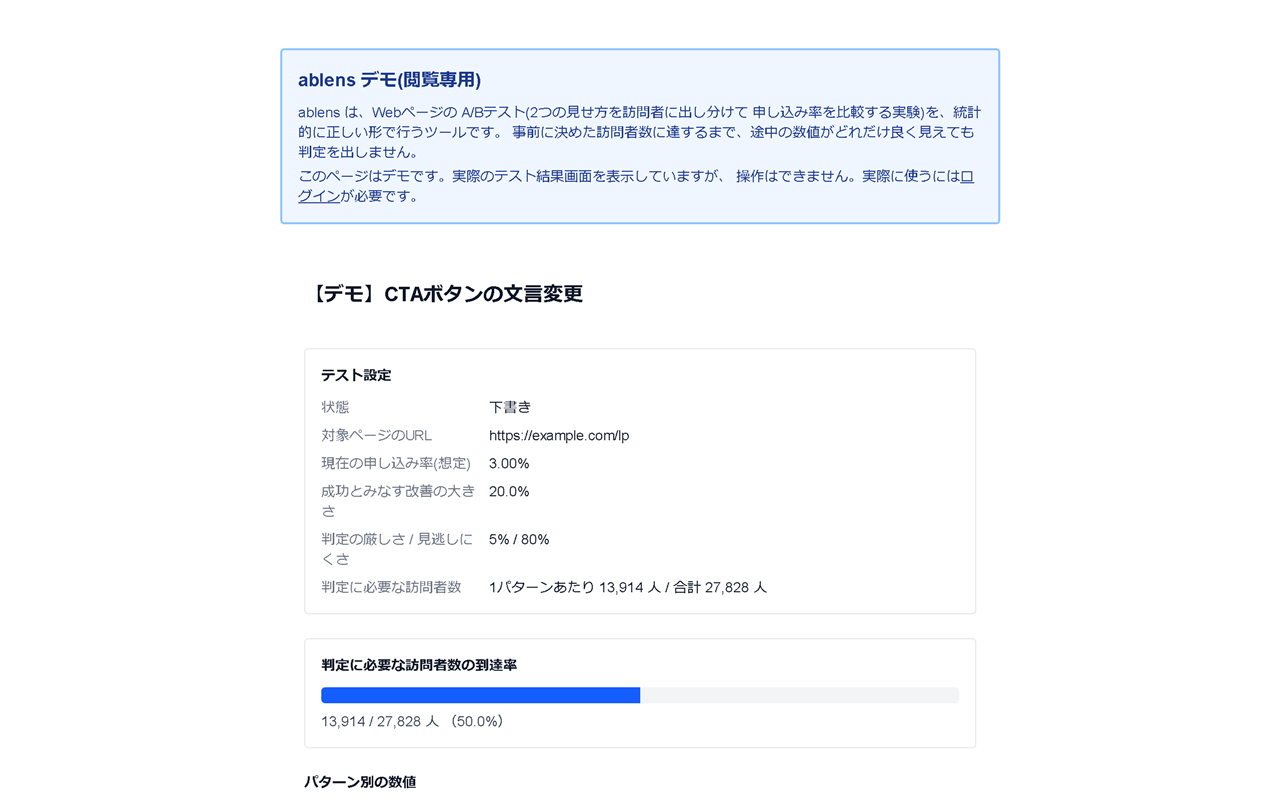
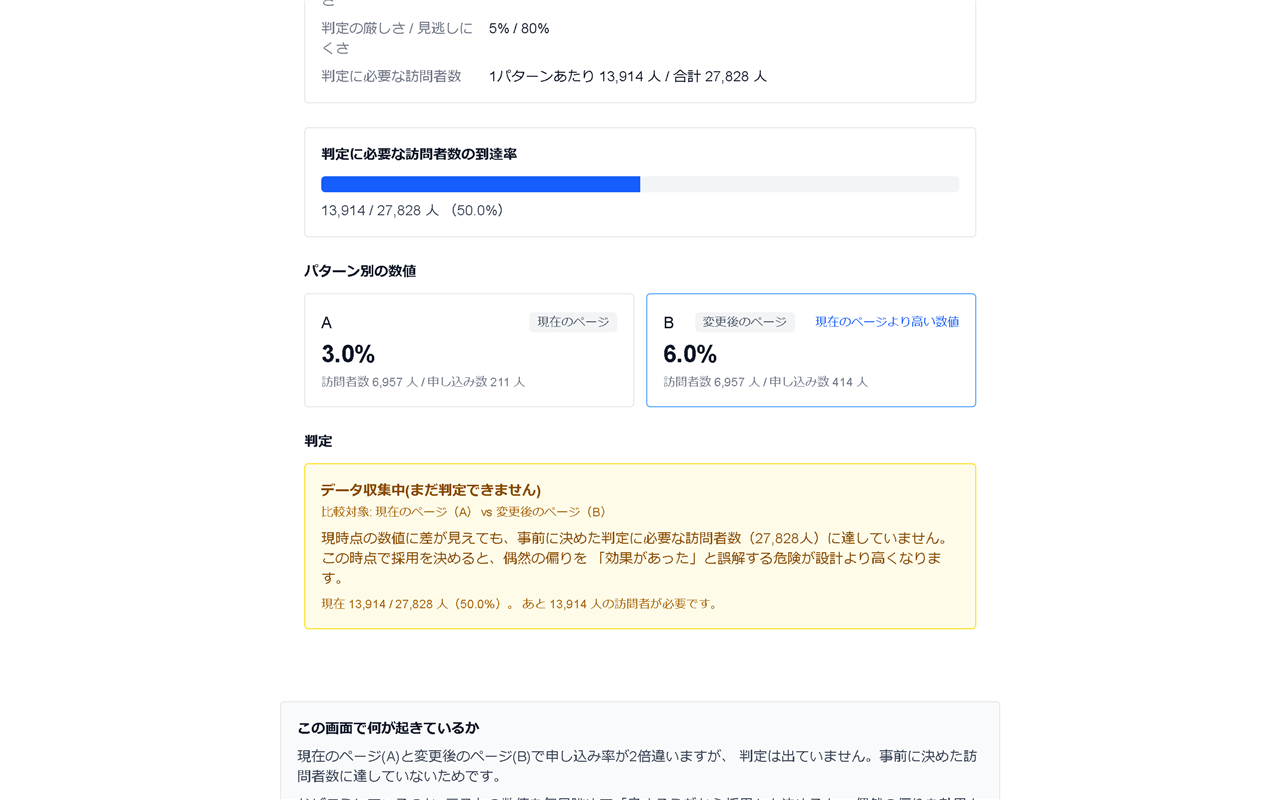
feat: add bottom CTA and scroll animations

diff --git a/src/data/projects.js b/src/data/projects.js
@@ -53,8 +53,8 @@ export const projects = [
     repo: "rag-kitei-qa",
     category: ["AI・文書検索"],
     summary:
-      "就業規則について質問すると、根拠となる条文を示して回答します。規程に書かれていないことには無理に答えない設計で、答えの正確さは50問の評価で測って公開しています。",
-    tech: ["Python", "Streamlit", "FAISS", "Gemini API"],
+      "就業規則について質問すると、根拠となる条文を示して回答します(RAG)。答えの正確さは50問の評価で測って公開。同じ条文検索は MCP サーバーとしても提供し、AIエージェントから直接呼び出せます。",
+    tech: ["Python", "Streamlit", "FAISS", "Gemini API", "MCP"],
     image: "/works/rag-kitei-qa.png",
     url: "https://rag-kitei-demo.streamlit.app/",
     github: "https://github.com/shota48-lgtm/rag-kitei-qa",
